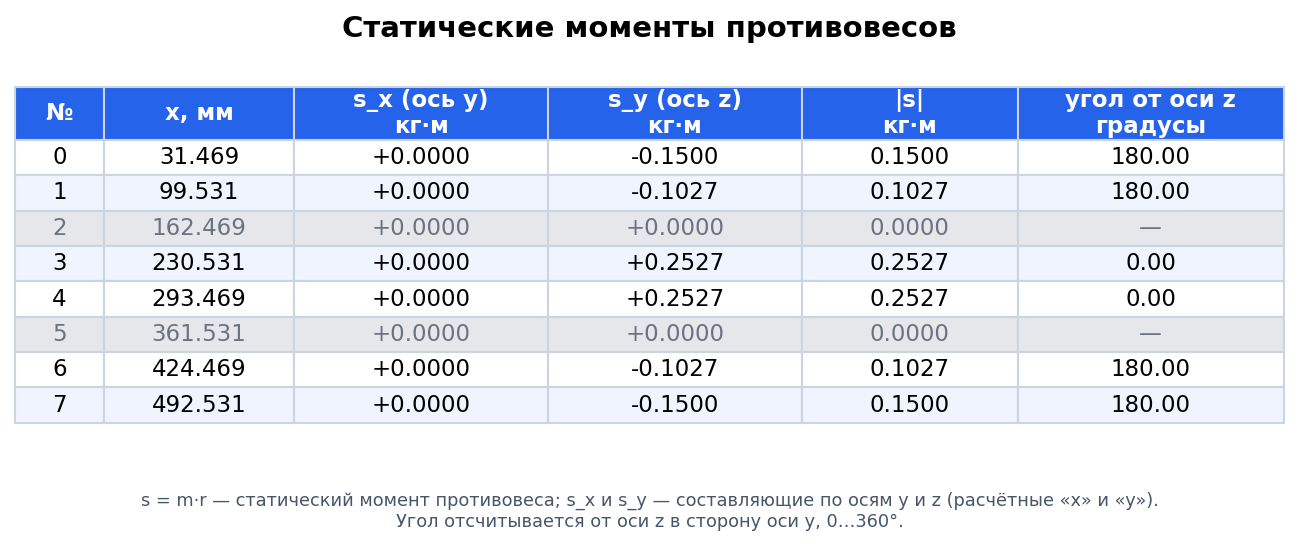
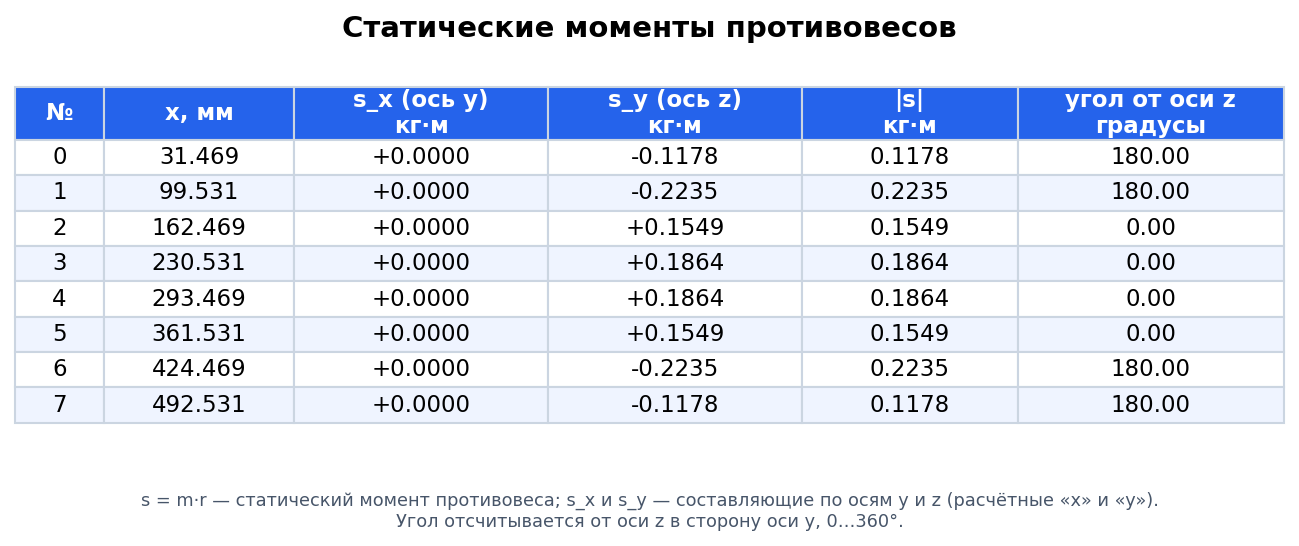
Fix README formula, split table examples

diff --git a/docs/make_readme_images.py b/docs/make_readme_images.py
@@ -43,14 +43,21 @@ plot_distribution(
     curve_label="Bending moment",
     save_path=OUT / "moment_y_optimized_en.png", show=False)
 
-# 2. Таблица противовесов (пример с ограничениями: видны убранные противовесы)
-cfg = ROOT / "examples" / "example_shaft_constrained.json"
-engine, components = load_shaft(cfg)
-res_c = analyze(engine, components, step=0.01, verbose=False,
-                constraints=load_constraints(cfg))
-rows = counterweight_rows(res_c)
+# 2. Таблица противовесов, основной пример без ограничений: 8 щёк — 8 противовесов
+rows = counterweight_rows(res)
 plot_counterweight_table(rows, save_path=OUT / "counterweights_table.png",
                          show=False, lang="ru")
 plot_counterweight_table(rows, save_path=OUT / "counterweights_table_en.png",
+                         show=False, lang="en")
+
+# 3. Та же таблица для примера с ограничениями: на щеках 2 и 5 противовесов нет
+cfg = ROOT / "examples" / "example_shaft_constrained.json"
+engine_c, components_c = load_shaft(cfg)
+res_c = analyze(engine_c, components_c, step=0.01, verbose=False,
+                constraints=load_constraints(cfg))
+rows_c = counterweight_rows(res_c)
+plot_counterweight_table(rows_c, save_path=OUT / "counterweights_table_constrained.png",
+                         show=False, lang="ru")
+plot_counterweight_table(rows_c, save_path=OUT / "counterweights_table_constrained_en.png",
                          show=False, lang="en")
 print("Готово:", *sorted(p.name for p in OUT.iterdir()), sep="\n  ")

diff --git a/tests/test_docs.py b/tests/test_docs.py
@@ -24,3 +24,10 @@ def test_relative_links_and_images_exist(name):
 def test_readmes_link_to_each_other():
     assert "README.en.md" in (ROOT / "README.md").read_text(encoding="utf-8")
     assert "README.md" in (ROOT / "README.en.md").read_text(encoding="utf-8")
+
+
+@pytest.mark.parametrize("name", READMES)
+def test_no_latex_macros_rejected_by_github(name):
+    # GitHub (MathJax) не принимает \operatorname — формула превращается в сообщение об ошибке
+    text = (ROOT / name).read_text(encoding="utf-8")
+    assert "\\operatorname" not in text

diff --git a/README.md b/README.md
@@ -311,6 +311,14 @@ print(res.result_y["F3"])     # силы противовесов, Н
 crankbalance examples/example_shaft_constrained.json --verify
 ```
 
+В этом примере блок `counterweights` убирает противовесы на щеках 2 и 5
+(`"all": {"zero": [2, 5]}`) и ограничивает крайние. Поэтому в таблице результата
+эти две строки серые: коэффициенты там нулевые по условию, угол не определён (прочерк),
+а остальные противовесы пересчитаны так, чтобы баланс сил и суммарный внешний момент
+всё равно остались нулевыми.
+
+![Таблица противовесов для примера с ограничениями](docs/img/counterweights_table_constrained.png)
+
 **Куда применяется** (ключи первого уровня):
 
 | Ключ | Действует на |
@@ -463,8 +471,9 @@ res = analyze(engine, components, counterweight_positions=[31.469, 99.531, 262.0
 
 ![Таблица статических моментов противовесов](docs/img/counterweights_table.png)
 
-*Пример `examples/example_shaft_constrained.json`: на щеках 2 и 5 противовесов нет, поэтому
-строки выделены серым, а вместо угла стоит прочерк.*
+*Пример `examples/example_shaft.json`: на всех 8 щеках подобраны противовесы. Если противовес
+убран ограничением (`zero`), его строка выделяется серым, а вместо угла стоит прочерк —
+пример смотрите в разделе [Ограничения на противовесы](#ограничения-на-противовесы).*
 
 | Столбец | Смысл |
 |---|---|
@@ -491,7 +500,7 @@ res = analyze(engine, components, counterweight_positions=[31.469, 99.531, 262.0
 
 ### Как считается угол
 
-$$\varphi = \operatorname{atan2}(s_x,\, s_y) \bmod 360^\circ$$
+$$\varphi = \text{atan2}(s_x, s_y) \bmod 360^\circ$$
 
 Угол отсчитывается от положительного направления оси z в сторону положительного
 направления оси y:

diff --git a/README.en.md b/README.en.md
@@ -345,6 +345,14 @@ A ready-made example is [`examples/example_shaft_constrained.json`](examples/exa
 crankbalance examples/example_shaft_constrained.json --verify
 ```
 
+In this example the `counterweights` block removes the counterweights on crank webs 2 and 5
+(`"all": {"zero": [2, 5]}`) and limits the outer ones. That is why those two rows of the
+result table are greyed out: the coefficients there are zero by construction, the angle is
+undefined (a dash), and the remaining counterweights are recomputed so that force
+equilibrium and a zero resultant external moment still hold.
+
+![Counterweight table for the constrained example](docs/img/counterweights_table_constrained_en.png)
+
 **What it applies to** (first-level keys):
 
 | Key | Applies to |
@@ -498,8 +506,10 @@ magnitude** and its **phase angle from the z axis**. The same table is saved as 
 
 ![Table of counterweight static moments](docs/img/counterweights_table_en.png)
 
-*Example `examples/example_shaft_constrained.json`: there are no counterweights on crank
-webs 2 and 5, so those rows are greyed out and show a dash instead of an angle.*
+*Example `examples/example_shaft.json`: counterweights have been selected on all 8 crank
+webs. If a counterweight has been removed by a constraint (`zero`), its row is greyed out
+and shows a dash instead of an angle — see the example in the section [Counterweight
+constraints](#counterweight-constraints).*
 
 | Column | Meaning |
 |---|---|
@@ -526,7 +536,7 @@ and the whole vector lies on the z axis.
 
 ### How the angle is computed
 
-$$\varphi = \operatorname{atan2}(s_x,\, s_y) \bmod 360^\circ$$
+$$\varphi = \text{atan2}(s_x, s_y) \bmod 360^\circ$$
 
 The angle is measured from the positive direction of the z axis toward the positive
 direction of the y axis:
